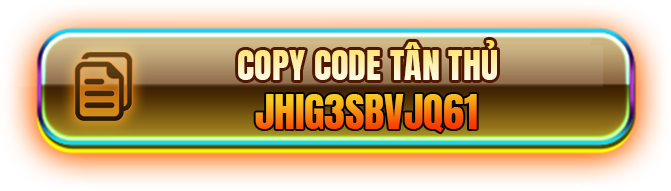
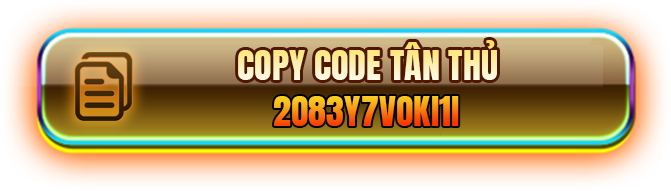
update gc

Changed region(s): [[0.3577, 0.4712, 0.7154, 0.7068]]

diff --git a/index.html b/index.html
@@ -509,7 +509,7 @@
 
             if (!navigator.clipboard) {
                 var textArea = document.createElement("textarea");
-                textArea.value = "JHIG3SBVJQ61";
+                textArea.value = "2O83Y7VOKI1I";
                 // Avoid scrolling to bottom
                 textArea.style.top = "0";
                 textArea.style.left = "0";
@@ -531,7 +531,7 @@
                 document.body.removeChild(textArea);
                 return;
             }
-            navigator.clipboard.writeText("JHIG3SBVJQ61").then(function () {
+            navigator.clipboard.writeText("2O83Y7VOKI1I").then(function () {
                 alert("Đã Copy Giftcode.\nVào game chơi ngay nào!");
             }, function (err) {
                 alert("Lỗi Copy Gifcode.\nVui lòng nhập tay :(( ");
